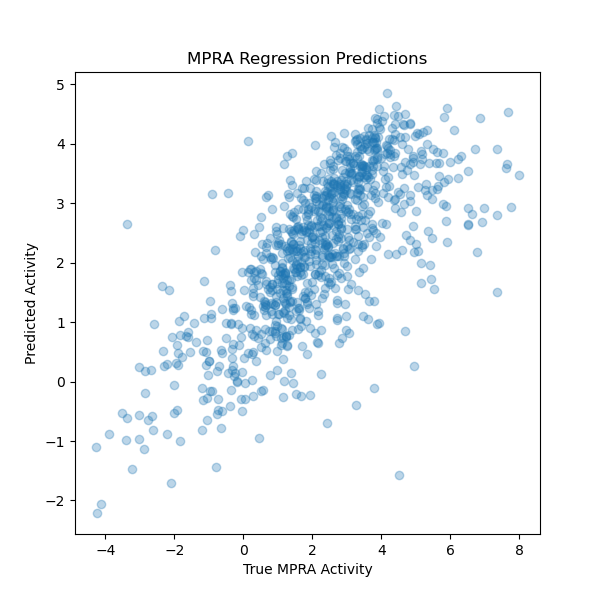
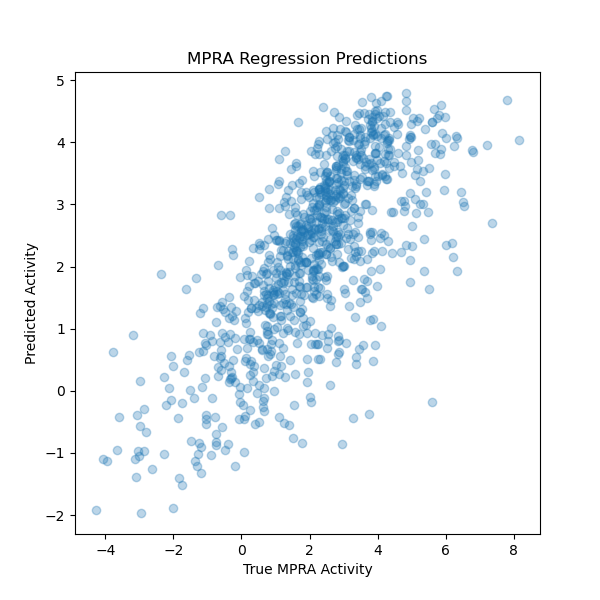
added positional encoding.
This increase pearson correlation by 0.01. The task appears to favour a strong local inductive bias.

diff --git a/src/model.py b/src/model.py
@@ -138,9 +138,15 @@ class SequenceTransformer(nn.Module):
             embedding_dim=64
         )
 
+        self.positional_embedding = nn.Embedding(
+            num_embeddings=200,
+            embedding_dim=64
+        )
+
         encoder_layer = nn.TransformerEncoderLayer(
             d_model=64,
             nhead=4,
+            dropout=0.1,
             batch_first=True
         )
 
@@ -161,7 +167,15 @@ class SequenceTransformer(nn.Module):
         tokens
     ):
 
+        positions = torch.arange(
+            0,
+            tokens.size(1),
+            device=tokens.device
+        ).unsqueeze(0)
+
         x = self.embedding(tokens)
+
+        x = x + self.positional_embedding(positions)
 
         x = self.transformer(x)
 